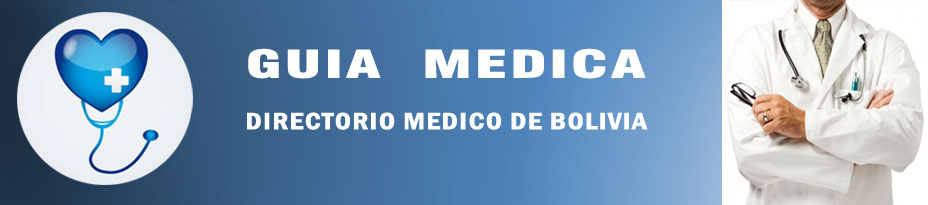
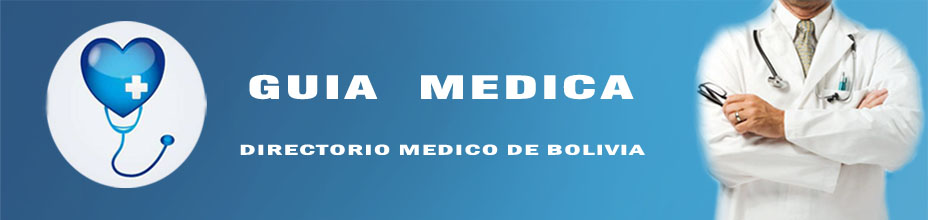
Cambios finales de css

diff --git a/public/css/style.css b/public/css/style.css
@@ -82,17 +82,17 @@ img {
 	width: 960px;
 	margin: 0 auto;
 	padding: 0 10px;	
-        border: 1px solid #cccc33;
+        border: 1px solid #6699ff;        
 }
 
 /* menu */
 
 #before-header {
-	width: 938px;
+	width: 926px;
 	height: 33px;
 	background: url(../images/menu_bg.jpg) no-repeat;
         /*border: 1px solid #cccc33;*/
-        border: 1px solid #cccc33;
+        border: 1px solid #6699ff;
         color: #2f5b86;
 	font-weight: normal;
 }
@@ -126,55 +126,16 @@ img {
 #menu li a:hover, #menu li .current {
 	color: #ffffff;  
 }
-
+#menu li a:active, #menu li .current {
+	color: #ffffff;  
+}
 /* end of menu*/
-#shopping_cart_summary {
-	float: right;
-	margin-right: 10px;
-	margin-top: 5px;
-	max-width: 400px;
-}
-
-#shopping_cart_summary #cart_summary_logo {
-	float: left;
-	width: 50px;
-	height: 32px;
-	cursor: pointer;
-}
-
-#shopping_cart_summary #cart_total_cost {
-	float: left;
-	text-align: center;
-	color: #dd36d2;  /*no se usa  en la vista principal*/
-}
-
-#shopping_cart_summary #cart_total_quantity {
-	float: left;
-	text-align: center;
-	width: 50px;
-	height: 26px;
-	padding-top: 9px;
-	font-size: 13px;
-	background: url(../images/red_circle.png) no-repeat center ;
-	background-size: 35px;
-}
-
-#shopping_cart_summary .cart_empty {
-	background: url(../images/empty_cart.png) no-repeat center;
-}
-
-#shopping_cart_summary .cart_full {
-	background: url(../images/full_cart.png) no-repeat center;
-}
-/* Shopping cart*/
-
-/* end of Shopping cart*/
 
 /* header */
 #header {
         margin-left: 30px;
 	clear: both;
-	width: 960px;
+	width: 972px;
 	height: 200px;
 	padding: 0;
 	margin: 0;
@@ -256,7 +217,7 @@ img {
 /* content */
 #content {
 	clear: both;
-	width: 920px;
+	width: 928px;
 	padding: 6px 0px;
 }
 
@@ -266,12 +227,12 @@ img {
 	padding: 10px;
 /*	background-color: #ADC1DC; color de fondo*/
         background-color: #2f5b86;
-	border: 1px solid #cccc33;/*borde del menu ixq*/
+	border: 1px solid #6699ff;/*borde del menu ixq*/
 }
 
 #content #content_right {
 	float: right;
-	width: 670px;
+	width: 680px;
 }
 
 #content #content_right p {
@@ -378,19 +339,53 @@ img {
 	width: 180px;
 	height: 220px;
 	margin-right: 10px;
-	text-align: center;
-        border: 2px solid #336699;
+	text-align: center;       
+        background: url(../images/hospi1.jpeg) no-repeat;
       
 }
-
+#content_right #image_vision {
+	float: left;
+	width: 180px;
+	height: 220px;
+	margin-right: 10px;	       
+        background: url(../images/vision.jpeg) no-repeat;
+        border: 4px solid #336699;
+}
+#content_right #image_valores{
+	float: left;
+	width: 180px;
+	height: 220px;
+        border: 4px solid #336699;
+	margin-right: 10px;	        
+        background: url(../images/valores.jpg) no-repeat;      
+}
+#content_right #image_contacto{
+	float: left;
+	width: 676px;
+	height: 250px;
+        border: 4px solid #336699;
+	margin-right: 10px;	        
+        background: url(../images/contactenos.jpg) no-repeat;      
+}
 #content_right #image_panel img {
 	max-width: 200px;
 	max-height: 200px;
+        
+}
+#content_right #image_about img {
+	max-width: 200px;
+	max-height: 200px;
+       
 }
 
 #content_right #detalle_contacto {
         margin: 20px;
 	min-height: 270px;
+	overflow: hidden;
+}
+#content_right #detalle_contactenos {       
+        margin: 74px 0px 0px 250px;	
+        width: 676px;
 	overflow: hidden;
 }
 
@@ -518,12 +513,11 @@ img {
 /* footer */
 #footer {
 	clear: both;
-	width: 940px;
-	padding: 20px 0px 16px 0;
+	width: 926px;
+	padding: 13px 0px 10px 0px;
 	text-align: center;
-	border-top: 1px solid #cccc33;/* amarillo chillon*/
-	background: url(../images/hh.jpg) ;
-       
+	border-top: 1px solid #6699ff;/* ahora celeste ya no amarillo chillon*/
+	background: url(../images/ff.jpg) ;
 }
 
 #footer a {
@@ -547,10 +541,10 @@ img {
 #order_detail_table
 {
 	margin: 0px;
-	width: 670px;
+	width: 680px;
 	text-align: left;
 	border-collapse: collapse;
-	border: 1px solid #cccc33;/*borde de la tabla de contenido*/
+	border: 1px solid #6699ff;/*borde de la tabla de contenido*/
 }
 #order_detail_table th/*relleno de tabla*/
 {
@@ -569,13 +563,7 @@ img {
 {
 	padding: 10px;
 	color: #000066;/*color de la letrade la tabla*/
-	border-top: 2px dashed #cccc33; 
-        
-        /* 
-}
-#order_detail_table tbody tr:hover td
-{
-/*	color: #222;*/
+	border-top: 2px dashed #6699ff;        
 	background: #ADC1DC;
 }
 

diff --git a/application/models/Telefono.php b/application/models/Telefono.php
@@ -8,9 +8,9 @@
  */
 class App_Model_Telefono
 {
-	const TELEFONO_TRABAJO = "trabajo";
-	const TELEFONO_CASA = "casa";
-	const TELEFONO_CELULAR = "celular";
+	const TELEFONO_TRABAJO = "Trabajo";
+	const TELEFONO_CASA = "Domicilio";
+	const TELEFONO_CELULAR = "Celular";
 	 
 	 /**
 	 * @var integer
